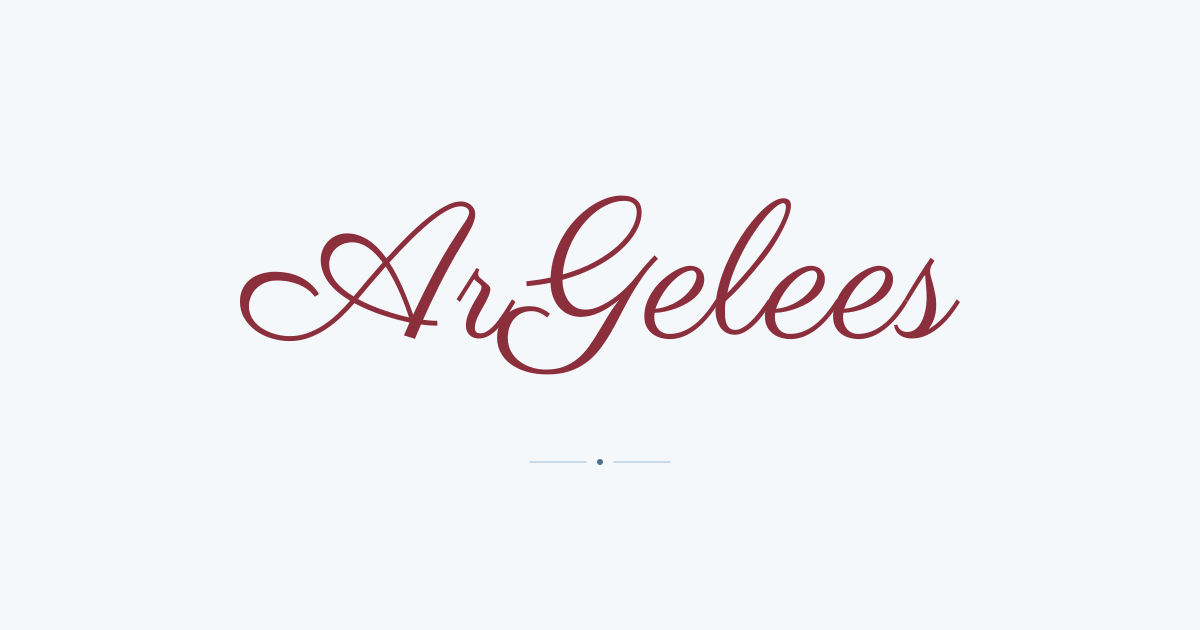
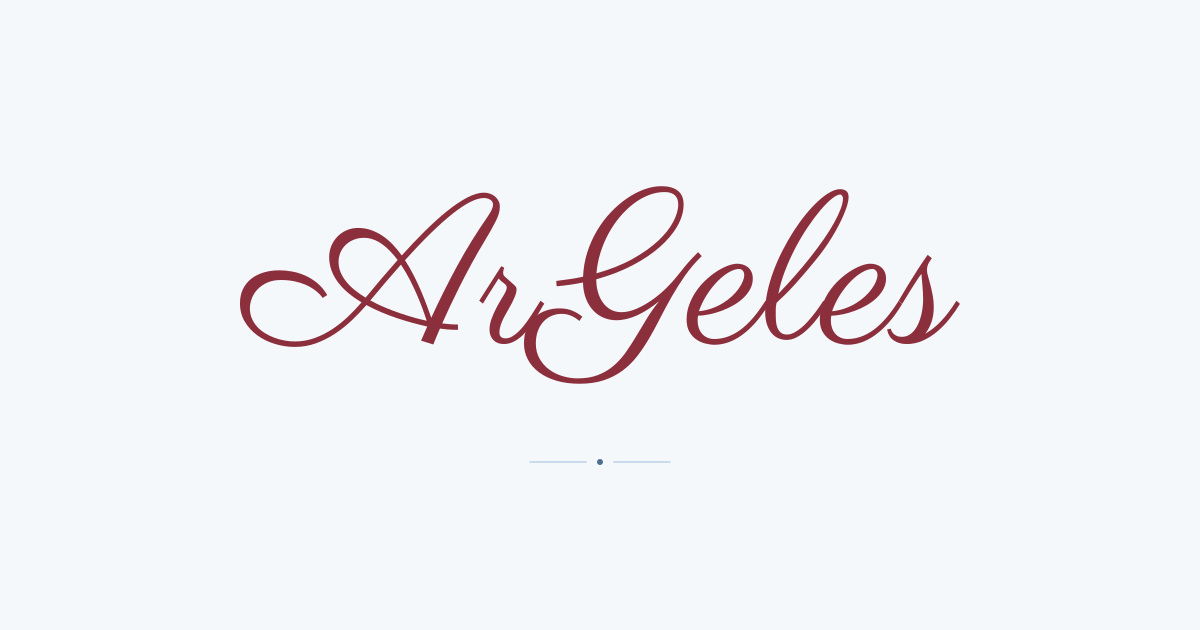
fix(brand): the name is ArGeles
The owner's brand is spelled ArGeles, one e, as on the logo. Renames the
site, the wordmark, the page titles, the social card and the docs; the
repository keeps its name.

Claude-Session: https://claude.ai/code/session_01GoNfNsi42PWbRXyau624um

Changed region(s): [[0.2158, 0.2714, 0.8017, 0.6333]]

diff --git a/scripts/favicon.ts b/scripts/favicon.ts
@@ -2,7 +2,7 @@
  * Favicon from the wordmark. Run with `bun run favicon` after changing the
  * wordmark font or the brand colours.
  *
- * Outlines the "A" of ArGelees straight from the bundled Parisienne file, so
+ * Outlines the "A" of ArGeles straight from the bundled Parisienne file, so
  * the icon never depends on a font loading, and paints it in the wordmark's
  * wine with no background: on the tab it reads like the logo itself. The SVG
  * follows the browser's colour scheme the way the wordmark follows the

diff --git a/src/app/core/images/image-manifest.generated.ts b/src/app/core/images/image-manifest.generated.ts
@@ -20,7 +20,7 @@ export const IMAGES = {
     width: 1200,
     height: 630,
     widths: [420, 640, 960],
[2 lines of base64/hex data omitted]
   },
   catalogGrapeBundt: {
     path: 'images/catalog/grape-bundt',

diff --git a/src/index.html b/src/index.html
@@ -3,7 +3,7 @@
 <html lang="es">
   <head>
     <meta charset="utf-8" />
-    <title>ArGelees</title>
+    <title>ArGeles</title>
     <base href="/" />
     <meta name="viewport" content="width=device-width, initial-scale=1" />
     <!-- Generated by `bun run favicon` from the wordmark font and the colour tokens. -->

diff --git a/src/app/core/config/app.constants.ts b/src/app/core/config/app.constants.ts
@@ -12,9 +12,9 @@ export const BREAKPOINTS = {
 } as const;
 
 export const SITE = {
-  name: 'ArGelees',
-  wordmark: 'ArGelees',
-  twitterHandle: '@argelees',
+  name: 'ArGeles',
+  wordmark: 'ArGeles',
+  twitterHandle: '@argeles',
   whatsappNumber: '584241860627',
 } as const;
 

diff --git a/docs/SEO.md b/docs/SEO.md
@@ -73,7 +73,7 @@ export class PricingPage implements OnInit {
 `segments` is the path **without** the language prefix — the service derives the canonical and all
 alternates from it. Get this wrong and the canonical points at the wrong page. Titles can take
 `paramKeys` (interpolation values that are themselves translation keys); the piece page uses that
-to build "ArGelees — `<name>`" from the piece's own name key. The brand always comes first in a title.
+to build "ArGeles — `<name>`" from the piece's own name key. The brand always comes first in a title.
 
 ## Prerendering data-driven pages
 

diff --git a/CLAUDE.md b/CLAUDE.md
@@ -1,6 +1,6 @@
 # Argelee
 
-Landing page and made-to-order menu for **ArGelees**, artisan jellies; orders convert through
+Landing page and made-to-order menu for **ArGeles**, artisan jellies; orders convert through
 WhatsApp. Angular 22 + Tailwind CSS 4, built and run with **Bun**. No component library: every
 component is ours. No backend: the site prerenders to static HTML (`outputMode: "static"`) and
 deploys to any static host.

diff --git a/README.md b/README.md
@@ -1,6 +1,6 @@
 # Argelee
 
-Landing page and made-to-order menu for **ArGelees**, artisan jellies. Visitors pick a piece, its
+Landing page and made-to-order menu for **ArGeles**, artisan jellies. Visitors pick a piece, its
 layers, its fruit and its size, and the order opens in WhatsApp already written out. Static,
 multilingual, no backend, no component library.
 
